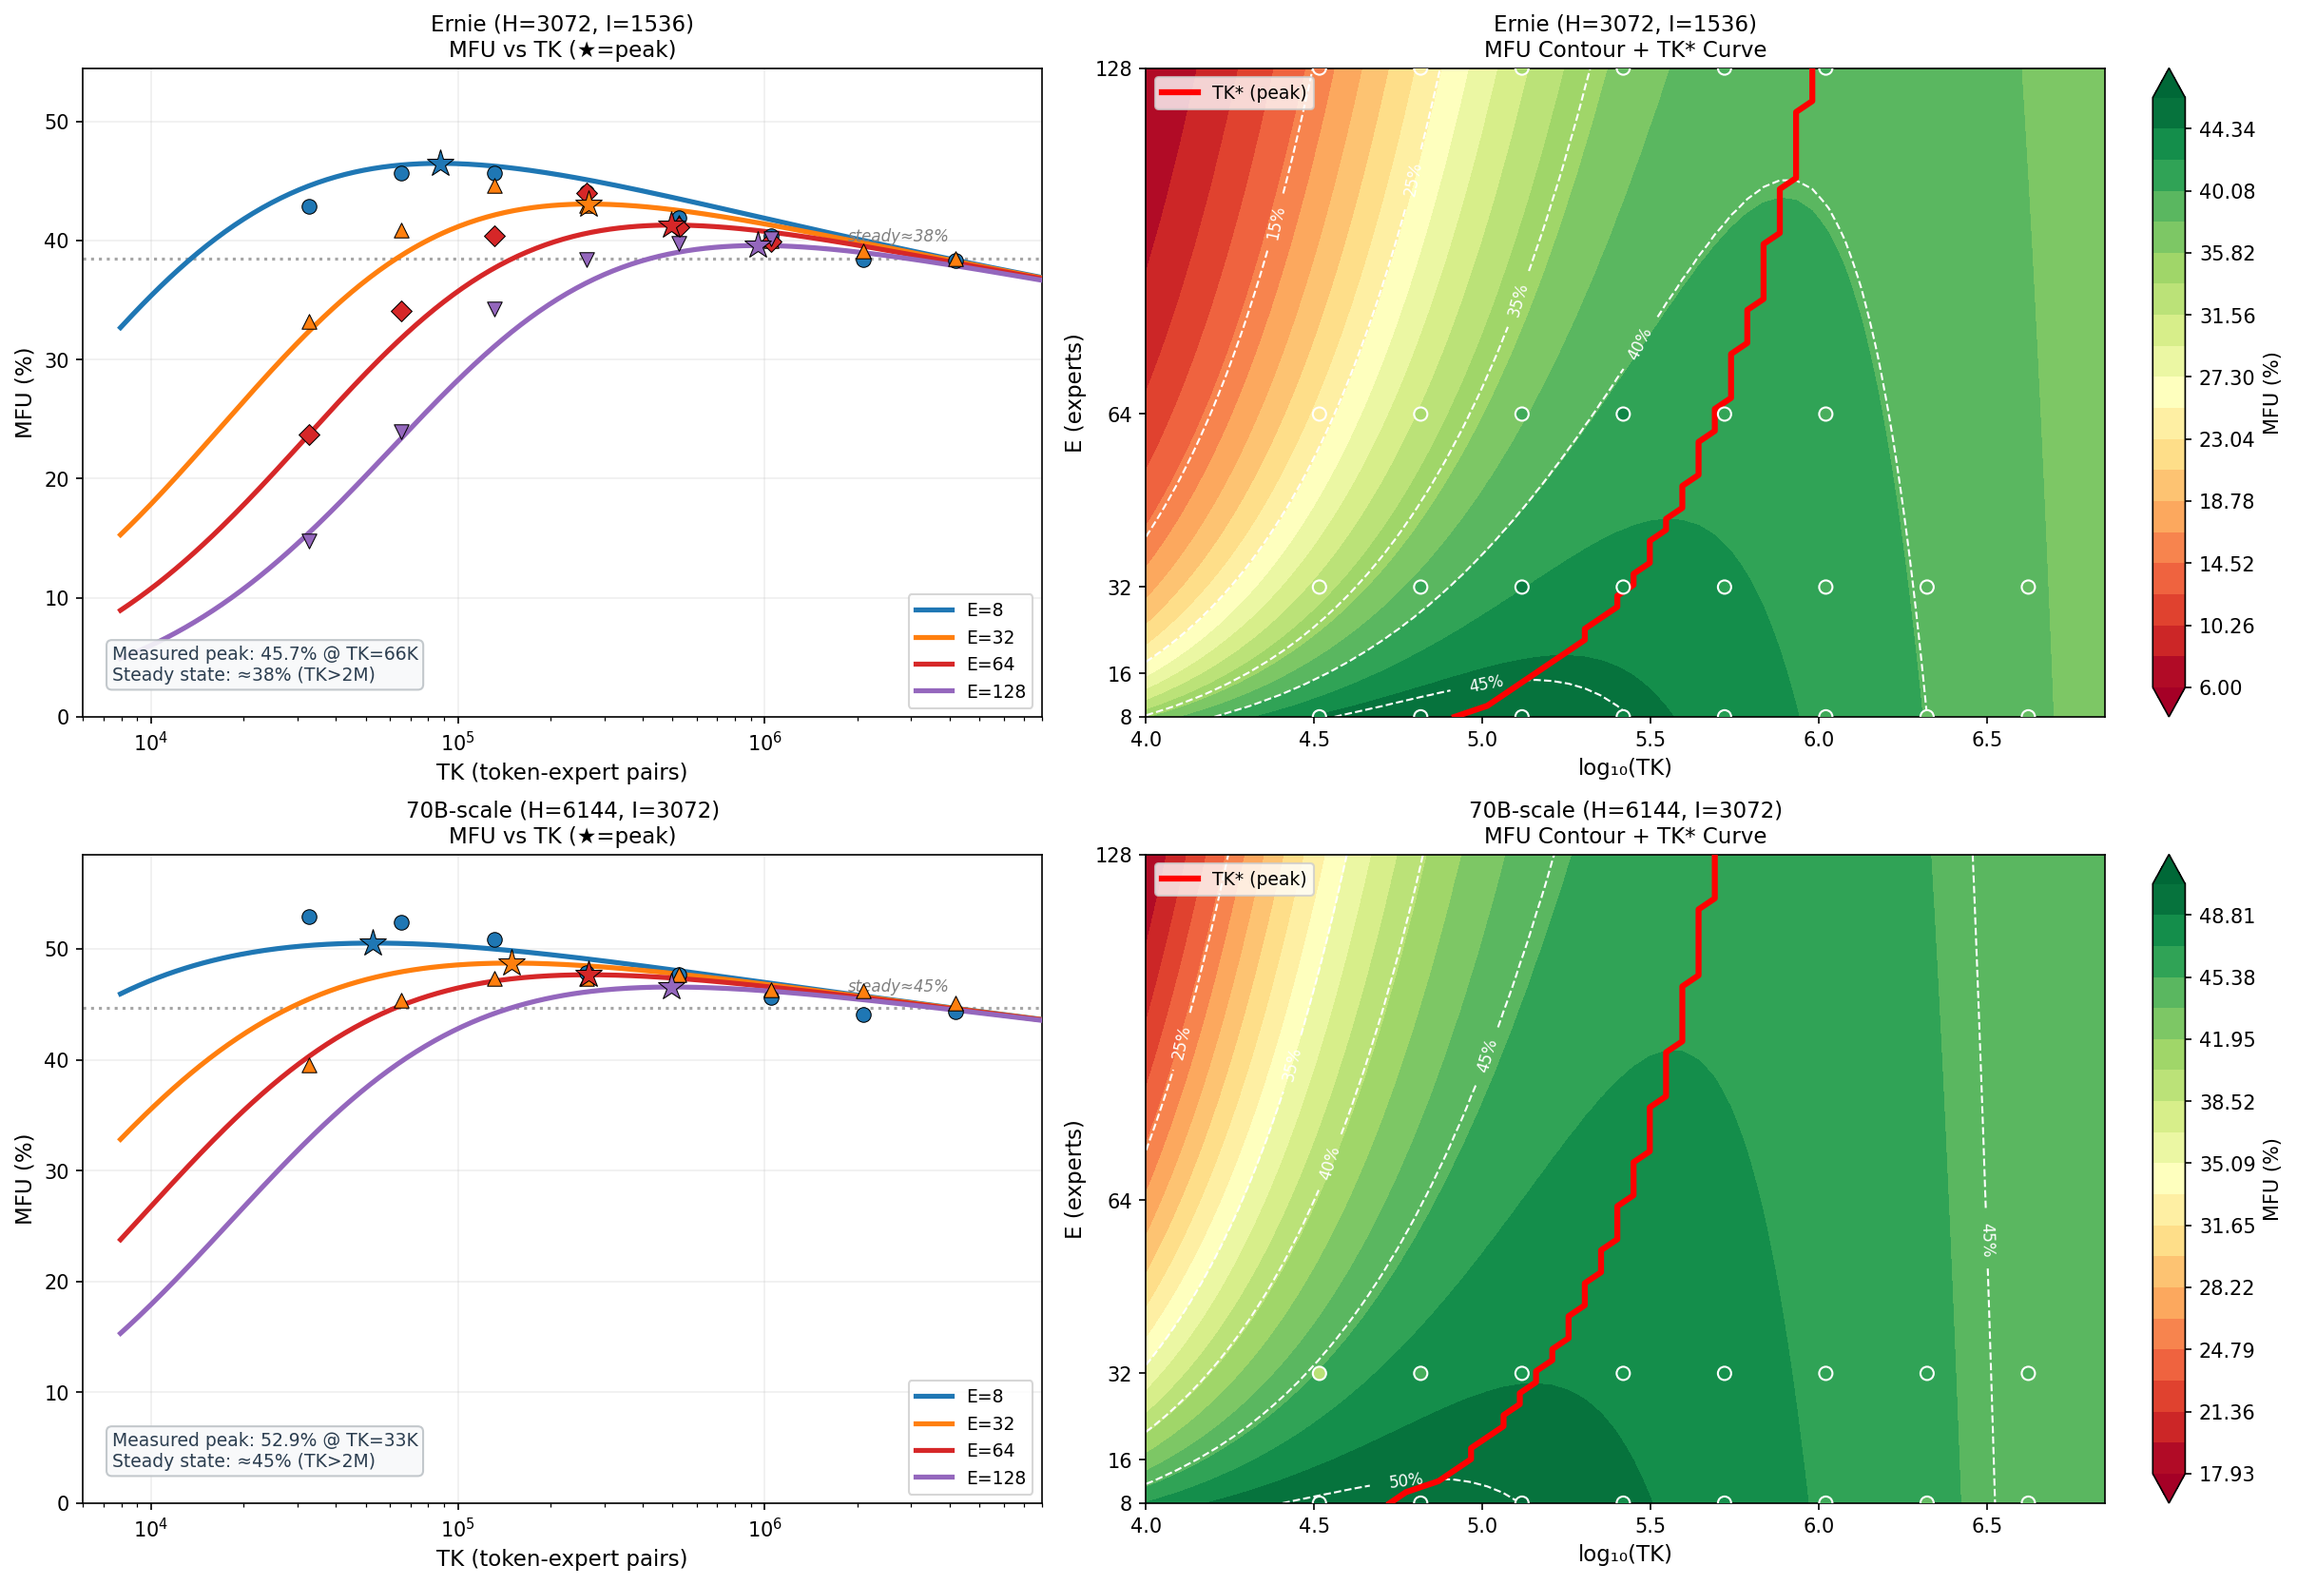
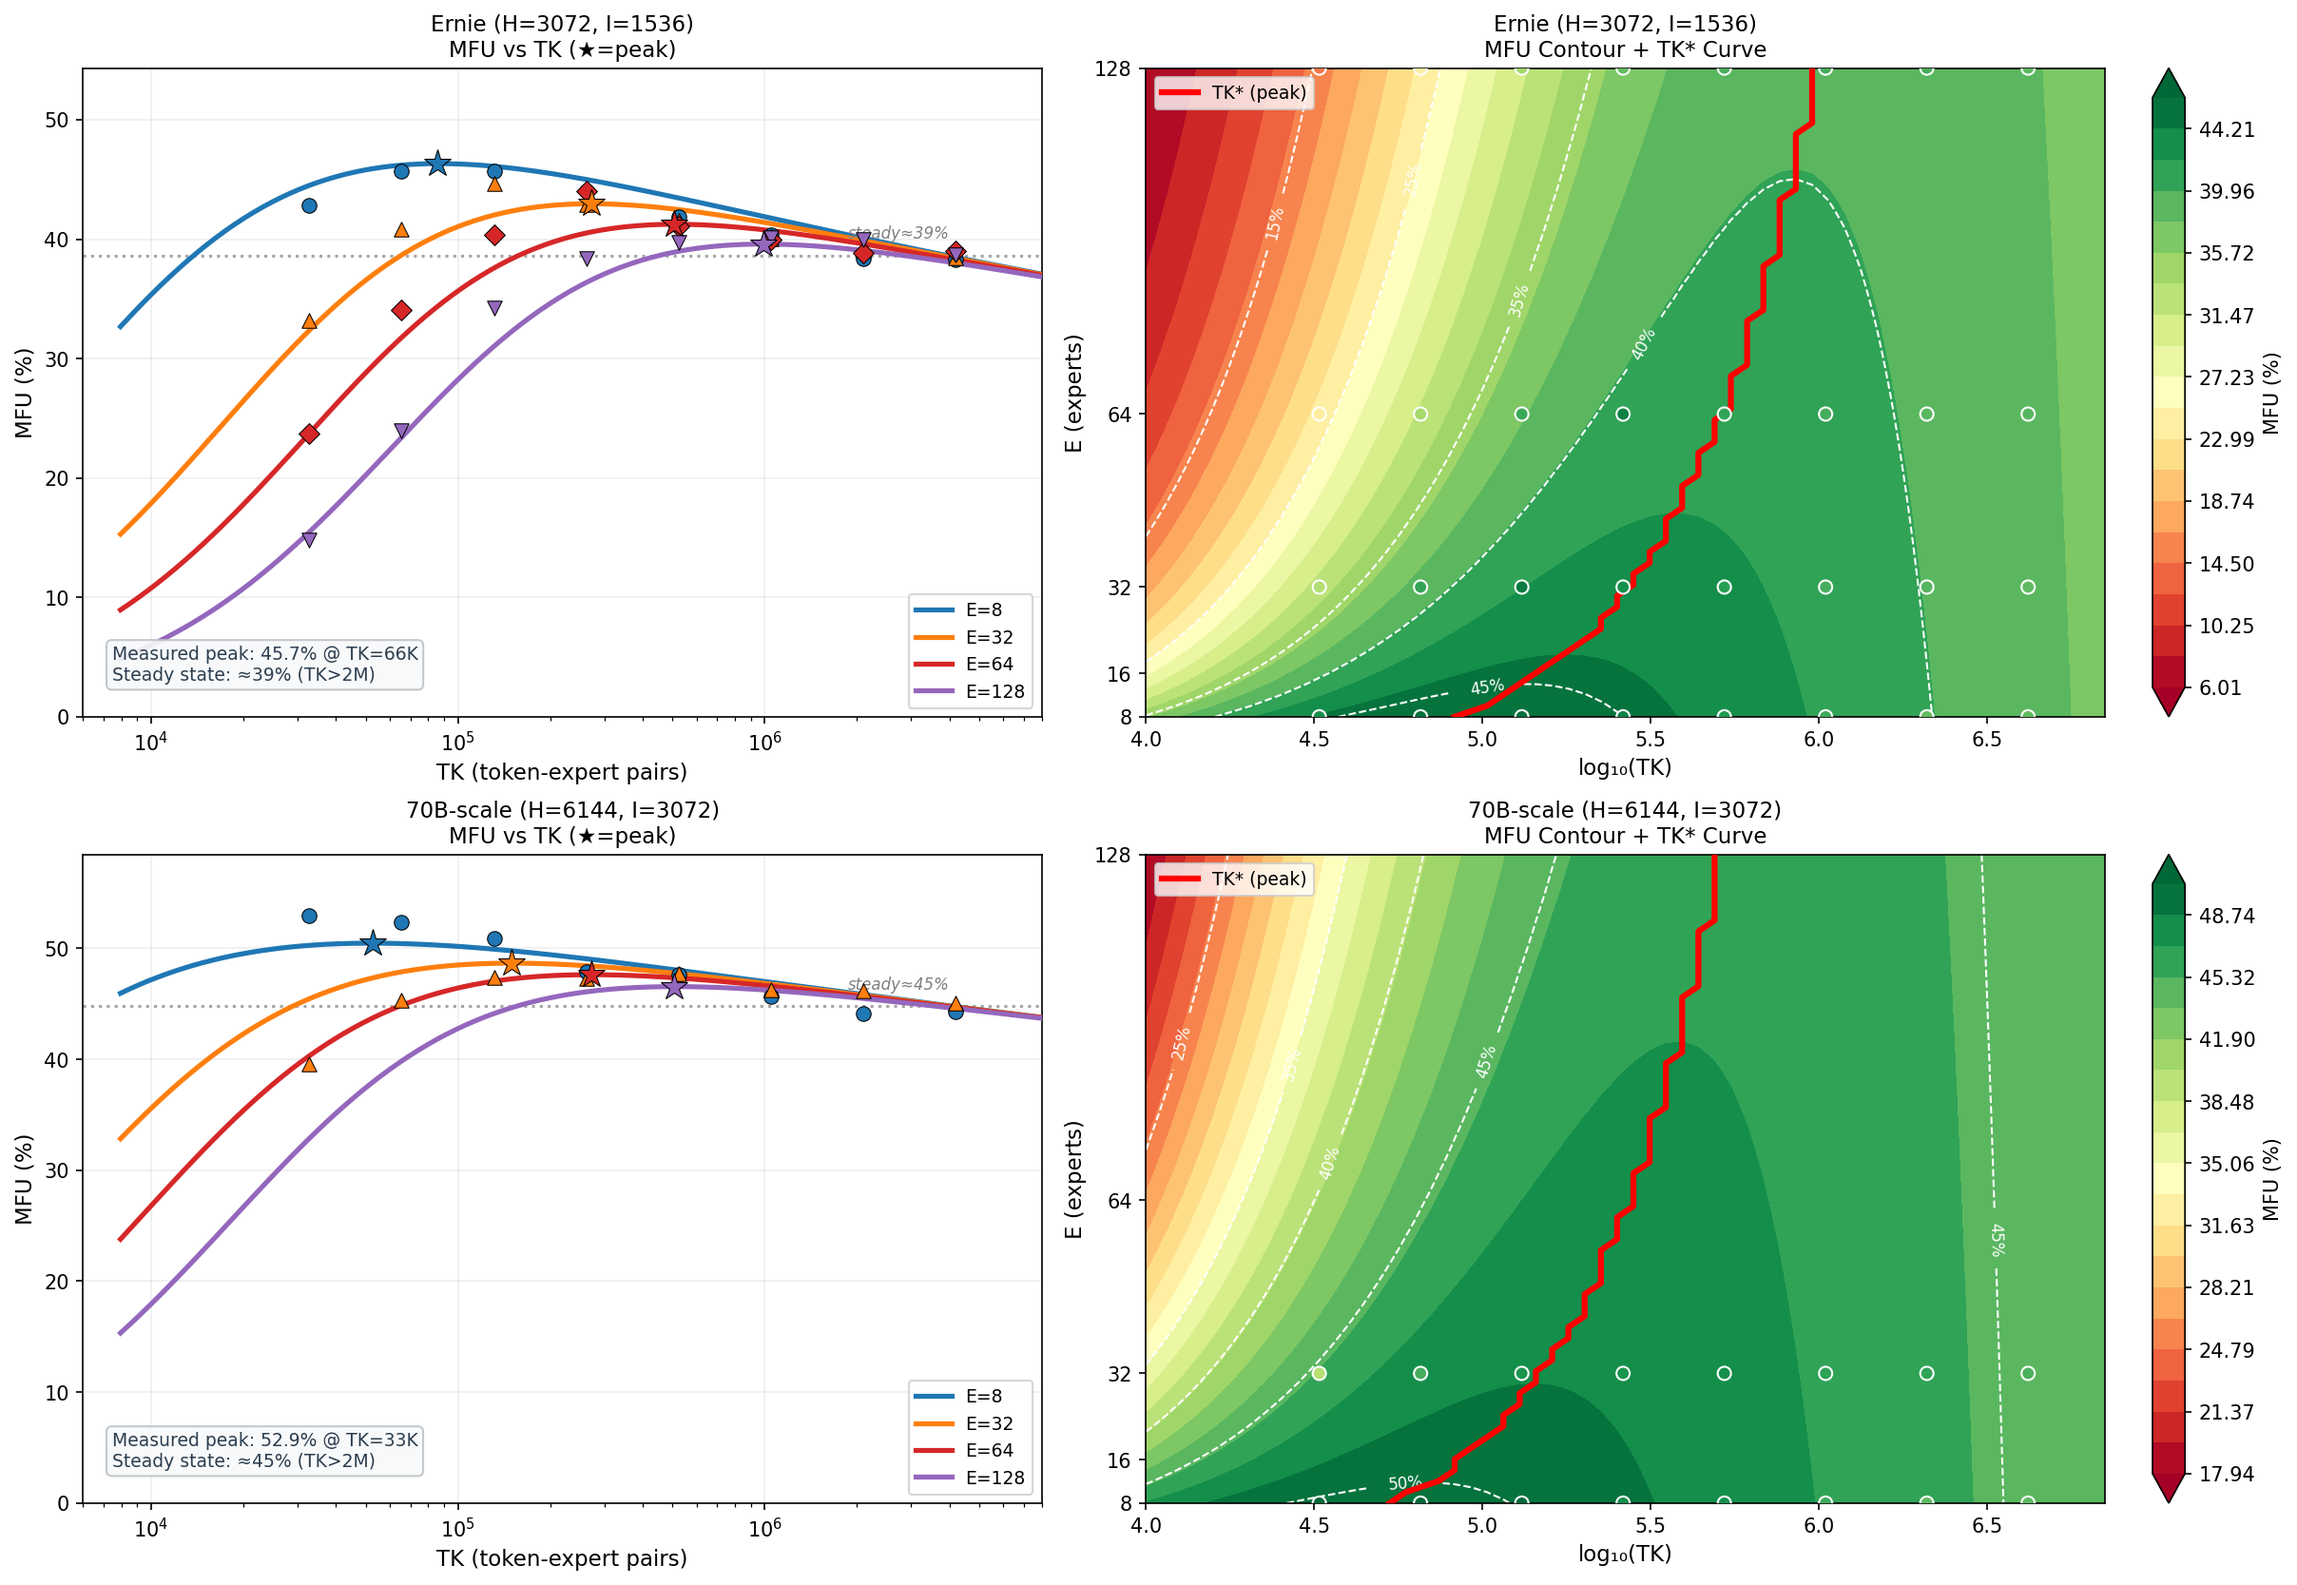
perf: complete 104-point Cartesian grid (MAPE=3.79%)
Full grid: 4E × 4HI × 8N = 128 target, 104 feasible (24 OOM).
Coverage: 100% of physically feasible configurations.
Model params updated (stable: α Δ<0.1%, TK₀ 45K→40K from E=64 data).
Incremental collection preserves all prior data.

diff --git a/tests/ops/bench_perf_sweep_nsys.py b/tests/ops/bench_perf_sweep_nsys.py
@@ -25,16 +25,32 @@ TOPK = 8
 N_WARMUP = 12
 N_BENCH_ITERS = 8
 
-# (E, N_recv, H, I) — SUPPLEMENTARY: large TK to observe decline/stabilize
+# (E, N_recv, H, I) — COMPLETE Cartesian grid gap-fill
+# Sets: E={8,32,64,128}, HI={(3072,1536),(4096,2048),(4096,4096),(6144,3072)}, N={4K..512K}
+# Only shapes NOT already in reports/perf_sweep_nsys_8gpu.csv
 SWEEP_SHAPES = [
-    (8, 262144, 3072, 1536),   (8, 524288, 3072, 1536),
-    (32, 262144, 3072, 1536),  (32, 524288, 3072, 1536),
-    (8, 262144, 4096, 2048),   (8, 524288, 4096, 2048),
-    (32, 262144, 4096, 2048),  (32, 524288, 4096, 2048),
-    (8, 262144, 4096, 4096),   (8, 524288, 4096, 4096),
-    (32, 262144, 4096, 4096),  (32, 524288, 4096, 4096),
-    (8, 262144, 6144, 3072),   (8, 524288, 6144, 3072),
-    (32, 262144, 6144, 3072),  (32, 524288, 6144, 3072),
+    # E=64 large TK (N=262144, 524288) × all HI
+    (64, 262144, 3072, 1536), (64, 524288, 3072, 1536),
+    (64, 262144, 4096, 2048), (64, 524288, 4096, 2048),
+    (64, 262144, 4096, 4096), (64, 524288, 4096, 4096),
+    # E=64 H=6144 I=3072 (all N)
+    (64, 4096, 6144, 3072), (64, 8192, 6144, 3072),
+    (64, 16384, 6144, 3072), (64, 32768, 6144, 3072),
+    (64, 65536, 6144, 3072), (64, 131072, 6144, 3072),
+    (64, 262144, 6144, 3072), (64, 524288, 6144, 3072),
+    # E=128 large TK (N=262144, 524288) × H3072, H4096x2048
+    (128, 262144, 3072, 1536), (128, 524288, 3072, 1536),
+    (128, 262144, 4096, 2048), (128, 524288, 4096, 2048),
+    # E=128 H=4096 I=4096 (all N — may OOM at large N)
+    (128, 4096, 4096, 4096), (128, 8192, 4096, 4096),
+    (128, 16384, 4096, 4096), (128, 32768, 4096, 4096),
+    (128, 65536, 4096, 4096), (128, 131072, 4096, 4096),
+    (128, 262144, 4096, 4096), (128, 524288, 4096, 4096),
+    # E=128 H=6144 I=3072 (all N — may OOM at large N)
+    (128, 4096, 6144, 3072), (128, 8192, 6144, 3072),
+    (128, 16384, 6144, 3072), (128, 32768, 6144, 3072),
+    (128, 65536, 6144, 3072), (128, 131072, 6144, 3072),
+    (128, 262144, 6144, 3072), (128, 524288, 6144, 3072),
 ]
 
 # INCREMENTAL MODE: append new results to existing CSV (never overwrite valid data)

diff --git a/tools/plot_mfu_model.py b/tools/plot_mfu_model.py
@@ -23,11 +23,11 @@ OUT_DIR = os.path.join(_REPO, "reports")
 #   β: L2 cache miss penalty per byte of working set when TK > TK₀
 #   TK₀: L2 transition scale (≈ L2_per_expert / tile_bytes × tile_M)
 #   γ: per-expert fixed cost (weight TMA descriptor + metadata kernel)
-ALPHA = 7.494097e-9    # µs per TK·H·I (η_tc = 53.4%)
-BETA = 9.933881e-7     # L2 miss penalty coefficient
-TK0 = 45710.0          # L2 transition scale
-GAMMA = 21.75          # per-expert fixed (µs)
-PEAK_TFLOPS = 4500     # B30Z FP8 peak (TFLOPS)
+ALPHA = 7.491431e-9    # µs per TK·H·I (η_tc = 53.4%)
+BETA = 9.519563e-7     # L2 miss penalty coefficient
+TK0 = 39747.0          # L2 transition scale
+GAMMA = 21.72          # per-expert fixed (µs)
+PEAK_TFLOPS = 4500     # FP8 peak (TFLOPS)
 
 
 def gpu_proj_us(TK, H, I, E):

diff --git a/README.md b/README.md
@@ -59,12 +59,12 @@ $$\text{MFU} = \frac{18 \cdot \text{TK} \cdot H \cdot I}{P \cdot T_{\text{proj}}
 
 | Parameter | Value | Derivation |
 |-----------|-------|------------|
-| α | 7.494 × 10⁻⁹ | = 18/(P · η\_tc), η\_tc = 53.4% |
-| β | 9.934 × 10⁻⁷ | L2 miss penalty per (access × refetch-width) |
-| TK₀ | 45 710 | ≈ (L2/E) / (tile\_M · tile\_N · b\_elem) · tile\_M = (96MB/8) / 64KB · 256 ≈ 49K |
-| γ | 21.75 µs | Per-expert TMA descriptor + metadata |
+| α | 7.491 × 10⁻⁹ | = 18/(P · η\_tc), η\_tc = 53.4% |
+| β | 9.520 × 10⁻⁷ | L2 miss penalty per (access × refetch-width) |
+| TK₀ | 39 747 | ≈ (L2/E) / (tile\_M · tile\_N · b\_elem) · tile\_M = (96MB/8) / 64KB · 256 ≈ 49K (fitted: 40K) |
+| γ | 21.72 µs | Per-expert TMA descriptor + metadata |
 
-Fit: MAPE = 3.95%, MFU MAE = 1.55%, N = 94 (uniform 4E × 4HI × 6TK grid + 16 large-TK).
+Fit: MAPE = 3.79%, MFU MAE = 1.49%, N = 104 (uniform 4E × 4HI × 6TK grid + 16 large-TK).
 
 #### Term semantics
 
